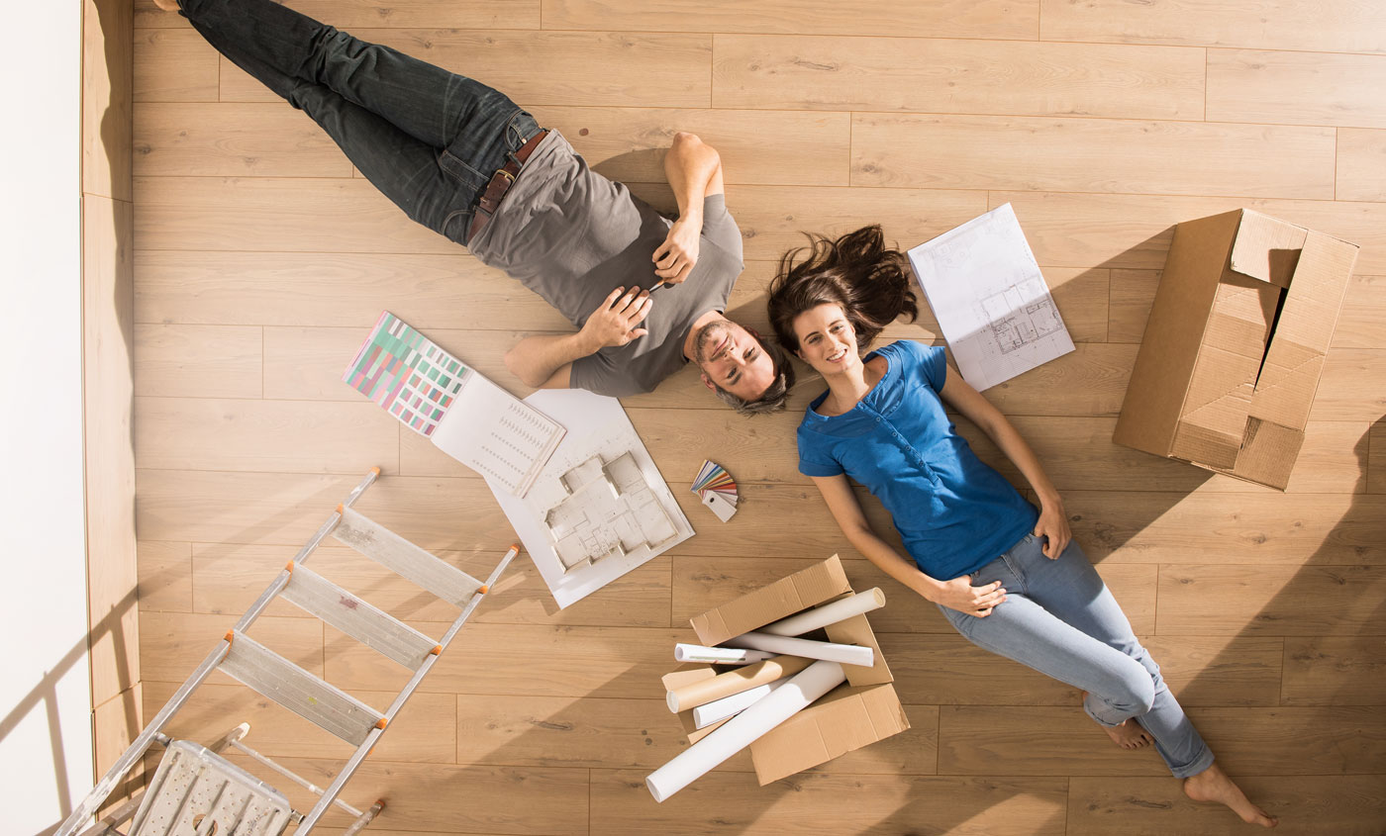
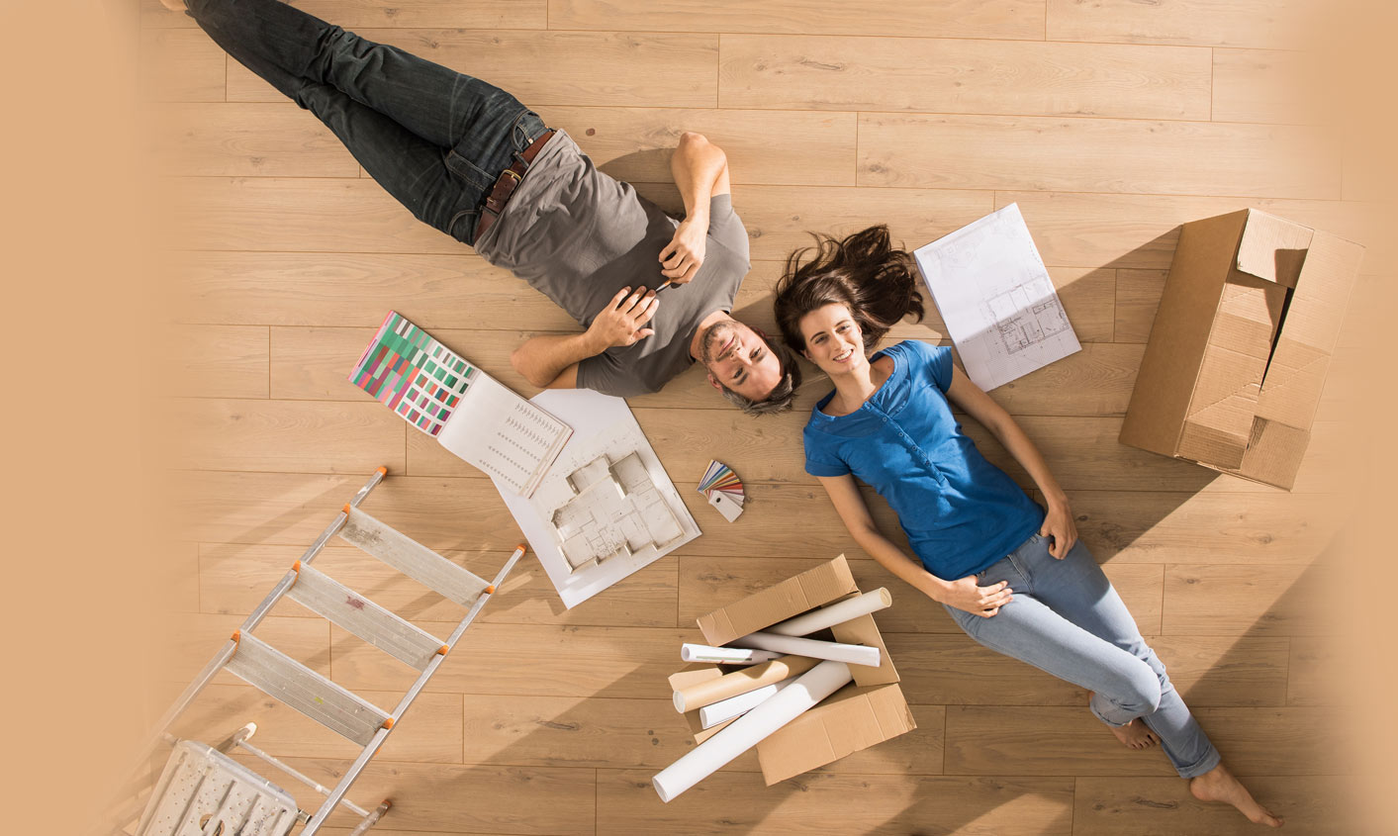
Feedback

diff --git a/firstLanding/public/styles/styles.min.css b/firstLanding/public/styles/styles.min.css
@@ -1,1 +1,1 @@
-#nav,.box-shadow,.my-btn{box-shadow:0 1px 2px -1px #000}.icon.icon-phone,.my-btn{text-align:center;display:inline-block}.show-m,.show-s,.show-xl,.show-xs{display:none}@media (min-width:1200px){.hide-xl{display:none!important}.show-xl{display:block}}@media (min-width:993px) and (max-width:1200px){.hide-m{display:none!important}.show-m{display:block}}@media (min-width:768px) and (max-width:992px){.hide-s{display:none!important}.show-s{display:block}}.font-settings-1{font-size:14px;line-height:22px}.font-settings-2{font-size:17px;line-height:28px}@media (max-width:767px){.hide-xs{display:none!important}.show-xs{display:block}.font-settings-2{font-size:16px;line-height:23px}}.font-settings-3{font-size:18px;line-height:28px}@media (min-width:768px) and (max-width:992px){.font-settings-3{font-size:16px;line-height:26px}}@media (max-width:767px){.font-settings-3{font-size:16px;line-height:23px}}.font-settings-4{font-size:21px;line-height:27px}@media (max-width:767px){.font-settings-4{font-size:18px;line-height:28px}}.font-settings-5{font-size:20px;line-height:33px}.font-settings-6{font-size:11px;line-height:32px}.font-settings-7{font-size:15px;line-height:24px}@font-face{font-family:open_sansregular;src:url(../fonts/opensans-regular-webfont.eot);src:url(../fonts/opensans-regular-webfont.eot?#iefix) format('embedded-opentype'),url(../fonts/opensans-regular-webfont.woff) format('woff'),url(../fonts/opensans-regular-webfont.ttf) format('truetype'),url(../fonts/opensans-regular-webfont.svg#open_sansregular) format('svg');font-weight:400;font-style:normal;font-variant:normal}@font-face{font-family:open_sanssemibold;src:url(../fonts/opensans-semibold-webfont.eot);src:url(../fonts/opensans-semibold-webfont.eot?#iefix) format('embedded-opentype'),url(../fonts/opensans-semibold-webfont.woff) format('woff'),url(../fonts/opensans-semibold-webfont.ttf) format('truetype'),url(../fonts/opensans-semibold-webfont.svg#open_sanssemibold) format('svg');font-weight:400;font-style:normal;font-variant:normal}@font-face{font-family:proxima_nova_semibold;src:url(../fonts/proximanova-sbold-webfont.eot);src:url(../fonts/proximanova-sbold-webfont.eot?#iefix) format('embedded-opentype'),url(../fonts/proximanova-sbold-webfont.woff2) format('woff2'),url(../fonts/proximanova-sbold-webfont.woff) format('woff'),url(../fonts/proximanova-sbold-webfont.ttf) format('truetype'),url(../fonts/proximanova-sbold-webfont.svg#proxima_novasemibold) format('svg');font-weight:400;font-style:normal;font-variant:normal}@font-face{font-family:proxima_nova_bold;src:url(../fonts/proximanova-bold-webfont.eot);src:url(../fonts/proximanova-bold-webfont.eot?#iefix) format('embedded-opentype'),url(../fonts/proximanova-bold-webfont.woff2) format('woff2'),url(../fonts/proximanova-bold-webfont.woff) format('woff'),url(../fonts/proximanova-bold-webfont.ttf) format('truetype'),url(../fonts/proximanova-bold-webfont.svg#proxima_nova_rgbold) format('svg');font-weight:400;font-style:normal;font-variant:normal}body{font-family:open_sansregular;font-size:14px;line-height:22px;color:#434648;background-color:#fff}.logo{margin:0}.logo a,.logo span{background:url(../images/logo.png) no-repeat;display:inline-block;height:35px;width:262px;text-indent:-9999px}a:active,a:focus,a:hover,a:link a:visited{color:#434648;outline:0;text-decoration:none}.my-btn,.my-btn:active,.my-btn:focus,.my-btn:hover,.my-btn:link .my-btn:visited{color:#fff}h1,h2,h3,h4,h5,h6{font-family:proxima_nova_bold;line-height:normal;margin:0}.call,.contact-wrapper .contact,.my-btn{font-family:proxima_nova_semibold;text-transform:uppercase}.site-padding{padding:35px 0}.site-padding-top{padding-top:35px}.site-padding-bottom{padding-bottom:35px}.my-btn{font-weight:400;font-style:normal;border-radius:4px;font-size:18px;line-height:normal;border:none;padding:0}.my-btn.btn-1{background-color:#34a2f6}.my-btn.btn-1:hover{background-color:#2e90da}.icon.icon-phone{border-radius:100%;width:30px;height:30px;line-height:30px;background-color:#e60000;color:#fff}.icon.icon-phone i{font-size:18px;vertical-align:middle}.call{color:#0a0d04;font-size:13px;min-width:201px}.call .icon{margin-top:5px}.call .phone{font-size:20px;display:block;color:#e60000}#nav{height:75px;background-color:#fff;border-bottom:4px solid #e60000;position:fixed;top:0;left:0;width:100%;z-index:10}#nav .logo{margin-top:15px;float:left}@media (max-width:767px){#nav .logo{float:none;text-align:center}}#nav .call{float:right;margin-top:10px}#nav .call .icon{margin-right:11px;float:left}#header{height:845px;background:url(../images/bg-header.jpg) 50% 0/cover no-repeat fixed;position:relative;overflow:hidden}@media (max-width:767px){#header{background:url(../images/bg-header.jpg) 57% -100px no-repeat}}#header .bottom{color:#fff;background-color:rgba(230,0,0,.7);height:109px;position:absolute;bottom:0;left:0;width:100%}@media (max-width:767px){#header .bottom{height:auto;padding:15px 0;background-color:#e60000}}#header .bottom .text{padding-top:30px}#header .bottom .text p{font-size:18px;line-height:28px;margin:0}@media (min-width:768px) and (max-width:992px){#header .bottom .text{padding-top:15px}#header .bottom .text p{font-size:16px;line-height:26px}}@media (min-width:768px) and (max-width:992px),(max-width:767px){#header .bottom .text p br{display:none}}#header .bottom a,#header .bottom a:active,#header .bottom a:focus,#header .bottom a:hover,#header .bottom a:link #header .bottom a:visited{color:#fff}.contact-wrapper{background:url(../images/sep-1.png) 50% 50% no-repeat}@media (max-width:767px){#header .bottom .text{padding:0;text-align:center}#header .bottom .text p{font-size:16px;line-height:23px}.contact-wrapper{margin-top:15px}}.contact-wrapper .contact{width:50%;float:left;font-size:18px;text-align:center;height:109px;line-height:109px}.contact-wrapper .contact p{margin:0}@media (max-width:767px){.contact-wrapper .contact{line-height:normal;height:89px;font-size:16px;padding-top:18px}.contact-wrapper .contact p i{display:block;margin-bottom:10px}}.dots-wrapper img,.site-subtitle{display:inline-block}.header-text{padding-top:356px;position:relative}.header-text h2{text-transform:uppercase;color:#fff;font-size:35px;background-color:#e60000;line-height:44px;text-align:right;padding-right:15px;position:absolute;top:240px;right:128px;width:1700px}#call-free,#cta,#footer,.dots-wrapper,.feature,.site-title{text-align:center}@media (min-width:993px) and (max-width:1200px){.header-text h2{right:142px}}@media (min-width:768px) and (max-width:992px){.header-text h2{right:113px}}@media (max-width:767px){.header-text{padding-top:450px}.header-text h2{font-size:26px;left:-1524px;line-height:34px;right:auto;top:360px}}.header-text h2+h2{top:294px;right:45px}@media (min-width:993px) and (max-width:1200px){.header-text h2+h2{right:59px}}@media (min-width:768px) and (max-width:992px){.header-text h2+h2{right:30px}}.header-text p{font-size:17px;line-height:28px;margin:0;color:#000}#call-free h3,#call-free h3 a{color:#e60000}@media (max-width:767px){.header-text h2+h2{top:404px;right:auto;left:-1462px}.header-text p{font-size:16px;line-height:23px}}.header-text p strong{font-weight:400;font-family:open_sanssemibold}#call-free h3,.site-subtitle,.site-title{font-family:open_sansregular}.header-text .btn-1{height:54px;width:100%;line-height:54px;margin-top:30px;font-size:17px}#features{padding-top:35px}#features .feature{float:left;width:33.33333333%}@media (min-width:768px) and (max-width:992px){#features .feature{width:50%}}@media (max-width:767px){.header-text .btn-1{font-size:15px;margin-top:10px}#features .feature{width:100%;padding:0;border:none;min-height:0}#features .site-title{margin-bottom:35px}}#features .site-subtitle{margin-top:50px}.site-title{font-size:21px;line-height:27px}@media (max-width:767px){.site-title{font-size:18px;line-height:28px}}.site-subtitle{line-height:60px;border:1px solid #efefef;padding:0 50px;border-radius:50px}@media (min-width:768px) and (max-width:992px){.site-subtitle{font-size:15px;padding:0 35px}}@media (max-width:767px){.site-subtitle{font-size:15px;line-height:24px;padding:10px;border-radius:10px}}.dots-wrapper{margin:30px 0}.dots-wrapper.lm{margin:15px 0}.dots-wrapper.nm{margin:0}.feature{min-height:308px;padding:0 33px}.feature.br{border-right:1px solid #efefef}@media (min-width:768px) and (max-width:992px){.feature.br{border:none}}.feature.bb{border-bottom:1px solid #efefef}.feature.pt{padding-top:40px}@media (min-width:768px) and (max-width:992px){.feature.bb{border:none}.feature.pt{padding-top:0}.feature.sbr{border-right:1px solid #efefef}.feature.sbb{border-bottom:1px solid #efefef}.feature.spt{padding-top:40px}.feature.spb{padding-bottom:40px}}.feature h5{font-size:13px;text-transform:uppercase;margin-top:25px;margin-bottom:30px}#call-free{background-color:#f4f4f4;padding-top:15px;padding-bottom:35px}#call-free h3{margin-bottom:35px}#call-free .call-free-icon{margin-top:15px;margin-bottom:30px}#call-free p{color:#000;margin:0}#cta{background:url(../images/bg-cta.jpg) 50% 0/cover no-repeat;height:607px;color:#fff;padding-top:220px}.cta-text p{font-size:20px;line-height:33px;margin:0}.cta-text .btn-1{line-height:54px;width:391px;margin-top:35px}@media (max-width:767px){#call-free p br,.cta-text p br{display:none}#cta{background:url(../images/bg-cta.jpg) 50% 0 no-repeat;padding-top:160px}.cta-text .btn-1{width:100%;font-size:15px}}#footer{padding:35px 0}#footer .bottom{border-top:1px solid #eff2f2;margin-top:20px;padding-top:20px}#footer .bottom p{margin:0;font-size:11px;line-height:32px;color:#acacac}@media (max-width:767px){#footer .bottom p{line-height:normal}}.owl-controls .owl-pagination .owl-page{margin:0 8px}.owl-controls .owl-pagination .owl-page span{border:3px solid #fff;background-color:#ccc;width:16px;height:16px;cursor:pointer;margin:0}.owl-controls .owl-pagination .owl-page.active span{border:3px solid #e60000;background-color:#e60000}.owl-controls .owl-pagination .owl-page.active:hover span,.owl-controls .owl-pagination .owl-page:hover span{background-color:#e60000}
+#nav,.box-shadow,.my-btn{box-shadow:0 1px 2px -1px #000}.icon.icon-phone,.my-btn{text-align:center;display:inline-block}.show-m,.show-s,.show-xl,.show-xs{display:none}@media (min-width:1200px){.hide-xl{display:none!important}.show-xl{display:block}}@media (min-width:993px) and (max-width:1200px){.hide-m{display:none!important}.show-m{display:block}}@media (min-width:768px) and (max-width:992px){.hide-s{display:none!important}.show-s{display:block}}.font-settings-1{font-size:14px;line-height:22px}.font-settings-2{font-size:16px;line-height:24px}@media (max-width:767px){.hide-xs{display:none!important}.show-xs{display:block}.font-settings-2{font-size:14px}}.font-settings-3{font-size:18px;line-height:28px}@media (min-width:768px) and (max-width:992px){.font-settings-3{font-size:16px;line-height:26px}}@media (max-width:767px){.font-settings-3{font-size:16px;line-height:23px}}.font-settings-4{font-size:21px;line-height:27px}@media (max-width:767px){.font-settings-4{font-size:18px;line-height:28px}}.font-settings-5{font-size:20px;line-height:33px}.font-settings-6{font-size:11px;line-height:32px}.font-settings-7{font-size:15px;line-height:24px}@font-face{font-family:open_sansregular;src:url(../fonts/opensans-regular-webfont.eot);src:url(../fonts/opensans-regular-webfont.eot?#iefix) format('embedded-opentype'),url(../fonts/opensans-regular-webfont.woff) format('woff'),url(../fonts/opensans-regular-webfont.ttf) format('truetype'),url(../fonts/opensans-regular-webfont.svg#open_sansregular) format('svg');font-weight:400;font-style:normal;font-variant:normal}@font-face{font-family:open_sanssemibold;src:url(../fonts/opensans-semibold-webfont.eot);src:url(../fonts/opensans-semibold-webfont.eot?#iefix) format('embedded-opentype'),url(../fonts/opensans-semibold-webfont.woff) format('woff'),url(../fonts/opensans-semibold-webfont.ttf) format('truetype'),url(../fonts/opensans-semibold-webfont.svg#open_sanssemibold) format('svg');font-weight:400;font-style:normal;font-variant:normal}@font-face{font-family:proxima_nova_semibold;src:url(../fonts/proximanova-sbold-webfont.eot);src:url(../fonts/proximanova-sbold-webfont.eot?#iefix) format('embedded-opentype'),url(../fonts/proximanova-sbold-webfont.woff2) format('woff2'),url(../fonts/proximanova-sbold-webfont.woff) format('woff'),url(../fonts/proximanova-sbold-webfont.ttf) format('truetype'),url(../fonts/proximanova-sbold-webfont.svg#proxima_novasemibold) format('svg');font-weight:400;font-style:normal;font-variant:normal}@font-face{font-family:proxima_nova_bold;src:url(../fonts/proximanova-bold-webfont.eot);src:url(../fonts/proximanova-bold-webfont.eot?#iefix) format('embedded-opentype'),url(../fonts/proximanova-bold-webfont.woff2) format('woff2'),url(../fonts/proximanova-bold-webfont.woff) format('woff'),url(../fonts/proximanova-bold-webfont.ttf) format('truetype'),url(../fonts/proximanova-bold-webfont.svg#proxima_nova_rgbold) format('svg');font-weight:400;font-style:normal;font-variant:normal}body{font-family:open_sansregular;font-size:14px;line-height:22px;color:#434648;background-color:#fff}.logo{margin:0}.logo a,.logo span{background:url(../images/logo.png) no-repeat;display:inline-block;height:35px;width:262px;text-indent:-9999px}a:active,a:focus,a:hover,a:link a:visited{color:#434648;outline:0;text-decoration:none}.my-btn,.my-btn:active,.my-btn:focus,.my-btn:hover,.my-btn:link .my-btn:visited{color:#fff}h1,h2,h3,h4,h5,h6{font-family:proxima_nova_bold;line-height:normal;margin:0}.call,.contact-wrapper .contact,.my-btn{font-family:proxima_nova_semibold;text-transform:uppercase}.site-padding{padding:35px 0}.site-padding-top{padding-top:35px}.site-padding-bottom{padding-bottom:35px}.my-btn{font-weight:400;font-style:normal;border-radius:4px;font-size:18px;line-height:normal;border:none;padding:0}.my-btn.btn-1{background-color:#34a2f6}.my-btn.btn-1:hover{background-color:#2e90da}.icon.icon-phone{border-radius:100%;width:30px;height:30px;line-height:30px;background-color:#e60000;color:#fff}.icon.icon-phone i{font-size:18px;vertical-align:middle}.call{color:#0a0d04;font-size:13px;min-width:201px}.call .icon{margin-top:5px}.call .phone{font-size:20px;display:block;color:#e60000}#nav{height:75px;background-color:#fff;border-bottom:4px solid #e60000;position:fixed;top:0;left:0;width:100%;z-index:10}#nav .logo{margin-top:15px;float:left}@media (max-width:767px){#nav .logo{float:none;text-align:center}}#nav .call{float:right;margin-top:10px}#nav .call .icon{margin-right:11px;float:left}#header{height:845px;background:url(../images/bg-header.jpg) 50% 0 no-repeat fixed #deaf84;position:relative;overflow:hidden}#header .bottom{color:#fff;background-color:rgba(230,0,0,.7);height:109px;position:absolute;bottom:0;left:0;width:100%}@media (max-width:767px){#header{background-position:58% -100px}#header .bottom{height:auto;padding:15px 0;background-color:#e60000}}#header .bottom .text{padding-top:30px}#header .bottom .text p{font-size:18px;line-height:28px;margin:0}@media (min-width:768px) and (max-width:992px){#header .bottom .text{padding-top:15px}#header .bottom .text p{font-size:16px;line-height:26px}}@media (min-width:768px) and (max-width:992px),(max-width:767px){#header .bottom .text p br{display:none}}#header .bottom a,#header .bottom a:active,#header .bottom a:focus,#header .bottom a:hover,#header .bottom a:link #header .bottom a:visited{color:#fff}.contact-wrapper{background:url(../images/sep-1.png) 50% 50% no-repeat}@media (max-width:767px){#header .bottom .text{padding:0;text-align:center}#header .bottom .text p{font-size:16px;line-height:23px}.contact-wrapper{margin-top:15px}}.contact-wrapper .contact{width:50%;float:left;font-size:18px;text-align:center;height:109px;line-height:109px}.contact-wrapper .contact p{margin:0}@media (max-width:767px){.contact-wrapper .contact{line-height:normal;height:89px;font-size:16px;padding-top:18px}.contact-wrapper .contact p i{display:block;margin-bottom:10px}}.dots-wrapper img,.site-subtitle{display:inline-block}.header-text{position:relative;height:845px;padding-top:480px}@media (max-width:767px){.header-text{padding-top:450px}}.header-text h2,.header-text p{position:absolute;padding:0 15px;text-align:right}.header-text h2{text-transform:uppercase;color:#fff;font-size:35px;background-color:#e60000;line-height:44px;top:240px;right:128px;width:1700px;left:-1468px}@media (min-width:993px) and (max-width:1200px){.header-text h2{top:205px}}@media (max-width:767px){.header-text h2{font-size:26px;left:-1524px;line-height:34px;right:auto;top:360px}}.header-text h2+h2{top:294px;left:-15px;width:332px}@media (min-width:993px) and (max-width:1200px){.header-text h2+h2{top:259px}}@media (max-width:767px){.header-text h2+h2{top:404px;left:-93px}}.header-text p{font-size:16px;margin:0;color:#000;line-height:24px;height:24px;background-color:rgba(255,255,255,.8);top:360px;left:-1369px;width:1700px}#call-free h3,#call-free h3 a{color:#e60000}#call-free,#cta,#footer,.dots-wrapper,.feature,.site-title{text-align:center}@media (min-width:993px) and (max-width:1200px){.header-text p{top:356px}}@media (max-width:767px){.header-text p{font-size:14px;top:450px;width:auto;padding:0;left:0;position:static;text-align:center;margin-bottom:4px}}.header-text p+p{top:388px;width:390px;left:-55px}@media (min-width:993px) and (max-width:1200px){.header-text p+p{top:384px}}@media (max-width:767px){.header-text p+p{top:478px;width:auto;padding:0}}.header-text p+p+p{top:416px;width:390px;left:-37px}@media (min-width:993px) and (max-width:1200px){.header-text p+p+p{top:412px}}@media (max-width:767px){.header-text p+p+p{top:506px;width:auto;padding:0}}.header-text p+p+p+p{top:444px;width:390px;padding-left:80px;left:-182px}@media (min-width:993px) and (max-width:1200px){.header-text p+p+p+p{top:440px}}@media (max-width:767px){.header-text p+p+p+p{top:534px;width:auto;padding:0}}.header-text p strong{font-weight:400;font-family:open_sanssemibold}#call-free h3,.site-subtitle,.site-title{font-family:open_sansregular}.header-text .btn-1{height:54px;width:100%;line-height:54px;margin-top:30px;font-size:17px}#features{padding-top:35px}#features .feature{float:left;width:33.33333333%}@media (min-width:768px) and (max-width:992px){#features .feature{width:50%}}@media (max-width:767px){.header-text .btn-1{font-size:15px;margin-top:10px}#features .feature{width:100%;padding:0;border:none;min-height:0}#features .site-title{margin-bottom:35px}}#features .site-subtitle{margin-top:50px}.site-title{font-size:21px;line-height:27px}@media (max-width:767px){.site-title{font-size:18px;line-height:28px}}.site-subtitle{line-height:60px;border:1px solid #efefef;padding:0 50px;border-radius:50px}@media (min-width:768px) and (max-width:992px){.site-subtitle{font-size:15px;padding:0 35px}}@media (max-width:767px){.site-subtitle{font-size:15px;line-height:24px;padding:10px;border-radius:10px}}.dots-wrapper{margin:30px 0}.dots-wrapper.lm{margin:15px 0}.dots-wrapper.nm{margin:0}.feature{min-height:308px;padding:0 33px}.feature.br{border-right:1px solid #efefef}@media (min-width:768px) and (max-width:992px){.feature.br{border:none}}.feature.bb{border-bottom:1px solid #efefef}.feature.pt{padding-top:40px}@media (min-width:768px) and (max-width:992px){.feature.bb{border:none}.feature.pt{padding-top:0}.feature.sbr{border-right:1px solid #efefef}.feature.sbb{border-bottom:1px solid #efefef}.feature.spt{padding-top:40px}.feature.spb{padding-bottom:40px}}.feature h5{font-size:13px;text-transform:uppercase;margin-top:25px;margin-bottom:30px}#call-free{background-color:#f4f4f4;padding-top:15px;padding-bottom:35px}#call-free h3{margin-bottom:35px}#call-free .call-free-icon{margin-top:15px;margin-bottom:30px}#call-free p{color:#000;margin:0}#cta{background:url(../images/bg-cta.jpg) 50% 0/cover no-repeat;height:607px;color:#fff;padding-top:220px}.cta-text p{font-size:20px;line-height:33px;margin:0}.cta-text .btn-1{line-height:54px;width:391px;margin-top:35px}@media (max-width:767px){#call-free p br,.cta-text p br{display:none}#cta{background:url(../images/bg-cta.jpg) 50% 0 no-repeat;padding-top:160px}.cta-text .btn-1{width:100%;font-size:15px}}#footer{padding:35px 0}#footer .bottom{border-top:1px solid #eff2f2;margin-top:20px;padding-top:20px}#footer .bottom p{margin:0;font-size:11px;line-height:32px;color:#acacac}@media (max-width:767px){#footer .bottom p{line-height:normal}}.owl-controls .owl-pagination .owl-page{margin:0 8px}.owl-controls .owl-pagination .owl-page span{border:3px solid #fff;background-color:#ccc;width:16px;height:16px;cursor:pointer;margin:0}.owl-controls .owl-pagination .owl-page.active span{border:3px solid #e60000;background-color:#e60000}.owl-controls .owl-pagination .owl-page.active:hover span,.owl-controls .owl-pagination .owl-page:hover span{background-color:#e60000}

diff --git a/firstLanding/public/styles/styles.css b/firstLanding/public/styles/styles.css
@@ -56,13 +56,12 @@ Fonts
   line-height: 22px;
 }
 .font-settings-2 {
-  font-size: 17px;
-  line-height: 28px;
+  font-size: 16px;
+  line-height: 24px;
 }
 @media (max-width: 767px) {
   .font-settings-2 {
-    font-size: 16px;
-    line-height: 23px;
+    font-size: 14px;
   }
 }
 .font-settings-3 {
@@ -290,13 +289,13 @@ Header Styles
 ***************************/
 #header {
   height: 845px;
-  background: url("../images/bg-header.jpg") no-repeat fixed 50% 0 / cover;
+  background: #deaf84 url("../images/bg-header.jpg") no-repeat fixed 50% 0;
   position: relative;
   overflow: hidden;
 }
 @media (max-width: 767px) {
   #header {
-    background: rgba(0, 0, 0, 0) url("../images/bg-header.jpg") no-repeat scroll 57% -100px;
+    background-position: 58% -100px;
   }
 }
 #header .bottom {
@@ -396,8 +395,9 @@ Header Styles
   }
 }
 .header-text {
-  padding-top: 356px;
   position: relative;
+  height: 845px;
+  padding-top: 480px;
 }
 @media (max-width: 767px) {
   .header-text {
@@ -411,20 +411,16 @@ Header Styles
   background-color: #e60000;
   line-height: 44px;
   text-align: right;
-  padding-right: 15px;
+  padding: 0 15px;
   position: absolute;
   top: 240px;
   right: 128px;
   width: 1700px;
+  left: -1468px;
 }
 @media (min-width: 993px) and (max-width: 1200px) {
   .header-text h2 {
-    right: 142px;
-  }
-}
-@media (min-width: 768px) and (max-width: 992px) {
-  .header-text h2 {
-    right: 113px;
+    top: 205px;
   }
 }
 @media (max-width: 767px) {
@@ -438,35 +434,105 @@ Header Styles
 }
 .header-text h2 + h2 {
   top: 294px;
-  right: 45px;
+  left: -15px;
+  width: 332px;
 }
 @media (min-width: 993px) and (max-width: 1200px) {
   .header-text h2 + h2 {
-    right: 59px;
-  }
-}
-@media (min-width: 768px) and (max-width: 992px) {
-  .header-text h2 + h2 {
-    right: 30px;
+    top: 259px;
   }
 }
 @media (max-width: 767px) {
   .header-text h2 + h2 {
     top: 404px;
-    right: auto;
-    left: -1462px;
+    left: -93px;
   }
 }
 .header-text p {
-  font-size: 17px;
-  line-height: 28px;
+  font-size: 16px;
   margin: 0;
   color: black;
+  line-height: 24px;
+  height: 24px;
+  background-color: rgba(255, 255, 255, 0.8);
+  position: absolute;
+  top: 360px;
+  left: -1369px;
+  padding: 0 15px;
+  text-align: right;
+  width: 1700px;
 }
 @media (max-width: 767px) {
   .header-text p {
-    font-size: 16px;
-    line-height: 23px;
+    font-size: 14px;
+  }
+}
+@media (min-width: 993px) and (max-width: 1200px) {
+  .header-text p {
+    top: 356px;
+  }
+}
+@media (max-width: 767px) {
+  .header-text p {
+    top: 450px;
+    width: auto;
+    padding: 0;
+    left: 0;
+    position: static;
+    text-align: center;
+    margin-bottom: 4px;
+  }
+}
+.header-text p + p {
+  top: 388px;
+  width: 390px;
+  left: -55px;
+}
+@media (min-width: 993px) and (max-width: 1200px) {
+  .header-text p + p {
+    top: 384px;
+  }
+}
+@media (max-width: 767px) {
+  .header-text p + p {
+    top: 478px;
+    width: auto;
+    padding: 0;
+  }
+}
+.header-text p + p + p {
+  top: 416px;
+  width: 390px;
+  left: -37px;
+}
+@media (min-width: 993px) and (max-width: 1200px) {
+  .header-text p + p + p {
+    top: 412px;
+  }
+}
+@media (max-width: 767px) {
+  .header-text p + p + p {
+    top: 506px;
+    width: auto;
+    padding: 0;
+  }
+}
+.header-text p + p + p + p {
+  top: 444px;
+  width: 390px;
+  padding-left: 80px;
+  left: -182px;
+}
+@media (min-width: 993px) and (max-width: 1200px) {
+  .header-text p + p + p + p {
+    top: 440px;
+  }
+}
+@media (max-width: 767px) {
+  .header-text p + p + p + p {
+    top: 534px;
+    width: auto;
+    padding: 0;
   }
 }
 .header-text p strong {

diff --git a/firstLanding/public/less/styles.less b/firstLanding/public/less/styles.less
@@ -16,8 +16,12 @@ Variables
 @red-1: #e60000;
 @red-2: rgba(230, 0, 0, 0.7);
 
+@brown-1: #deaf84;
+
 @blue-1: #34a2f6;
 @blue-2: #2e90da;
+
+@white-1: rgba(255, 255, 255, 0.8);
 
 @one-third: percentage(1/3);
 
@@ -95,12 +99,11 @@ Fonts
 }
 
 .font-settings-2 {
-  font-size: 17px;
-  line-height: 28px;
+  font-size: 16px;
+  line-height: 24px;
 
   @media @xs {
-    font-size: 16px;
-    line-height: 23px;
+    font-size: 14px;
   }
 }
 
@@ -401,12 +404,12 @@ Header Styles
 
 #header {
   height: 845px;
-  background: url("../images/bg-header.jpg") no-repeat fixed 50% 0 / cover;
+  background: @brown-1 url("../images/bg-header.jpg") no-repeat fixed 50% 0;
   position: relative;
   overflow: hidden;
 
   @media @xs {
-    background: rgba(0, 0, 0, 0) url("../images/bg-header.jpg") no-repeat scroll 57% -100px;
+    background-position: 58% -100px;
   }
 
   .bottom {
@@ -501,8 +504,9 @@ Header Styles
 }
 
 .header-text {
-  padding-top: 356px;
   position: relative;
+  height: 845px;
+  padding-top: 480px;
 
   @media @xs {
     padding-top: 450px;
@@ -515,18 +519,15 @@ Header Styles
     background-color: @red-1;
     line-height: 44px;
     text-align: right;
-    padding-right: 15px;
+    padding: 0 15px;
     position: absolute;
     top: 240px;
     right: 128px;
     width: 1700px;
+    left: -1468px;
 
     @media @medium {
-      right: 142px;
-    }
-
-    @media @small {
-      right: 113px;
+      top: 205px;
     }
 
     @media @xs {
@@ -539,20 +540,16 @@ Header Styles
 
     & + h2 {
       top: 294px;
-      right: 45px;
+      left: -15px;
+      width: 332px;
 
       @media @medium {
-        right: 59px;
-      }
-
-      @media @small {
-        right: 30px;
+        top: 259px;
       }
 
       @media @xs {
         top: 404px;
-        right: auto;
-        left: -1462px;
+        left: -93px;
       }
     }
   }
@@ -561,6 +558,78 @@ Header Styles
     .font-settings-2;
     margin: 0;
     color: black;
+    line-height: 24px;
+    height: 24px;
+    background-color: @white-1;
+    position: absolute;
+    top: 360px;
+    left: -1369px;
+    padding: 0 15px;
+    text-align: right;
+    width: 1700px;
+
+    @media @medium {
+      top: 356px;
+    }
+
+    @media @xs {
+      top: 450px;
+      width: auto;
+      padding: 0;
+      left: 0;
+      position: static;
+      text-align: center;
+      margin-bottom: 4px;
+    }
+
+    & + p {
+      top: 388px;
+      width: 390px;
+      left: -55px;
+
+      @media @medium {
+        top: 384px;
+      }
+
+      @media @xs {
+        top: 478px;
+        width: auto;
+        padding: 0;
+      }
+
+      & + p {
+        top: 416px;
+        width: 390px;
+        left: -37px;
+
+        @media @medium {
+          top: 412px;
+        }
+
+        @media @xs {
+          top: 506px;
+          width: auto;
+          padding: 0;
+        }
+
+        & + p {
+          top: 444px;
+          width: 390px;
+          padding-left: 80px;
+          left: -182px;
+
+          @media @medium {
+            top: 440px;
+          }
+
+          @media @xs {
+            top: 534px;
+            width: auto;
+            padding: 0;
+          }
+        }
+      }
+    }
 
     strong {
       font-weight: normal;

diff --git a/firstLanding/index.html b/firstLanding/index.html
@@ -38,9 +38,13 @@
 
           <h2>comienzan aquí</h2>
 
-          <p><strong>Con BAC CREDOMATIC</strong> puedes solicitar un préstamo personal a su medida para hacer realidad
-            sus sueños. Ahora
-            puede informarse a un solo clic de distancia!</p>
+          <p><strong>Con BAC CREDOMATIC</strong> puedes solicitar un</p>
+
+          <p>préstamo personal a su medida para hacer</p>
+
+          <p>realidad sus sueños. Ahora puede informarse</p>
+
+          <p>a un solo clic de distancia!</p>
           <a href="https://www.bac.net/mafi/getWebFormOpportunity.do?id=1c5513a32f067b5BE29" target="_blank"
              class="my-btn btn-1">¡Solicita tu Préstamo Personal Hoy!</a>
         </div>
